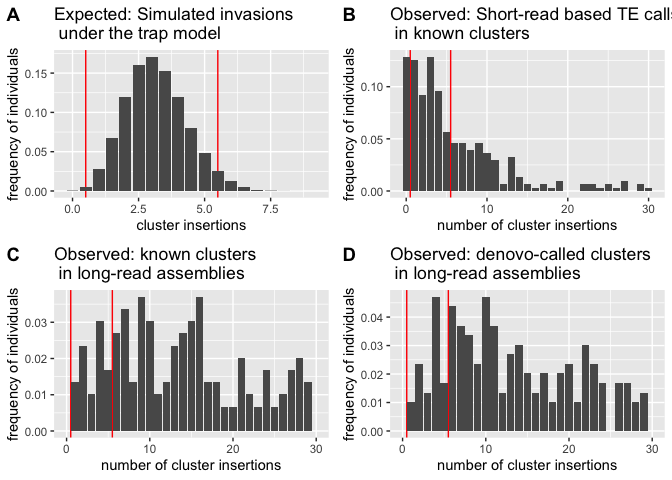
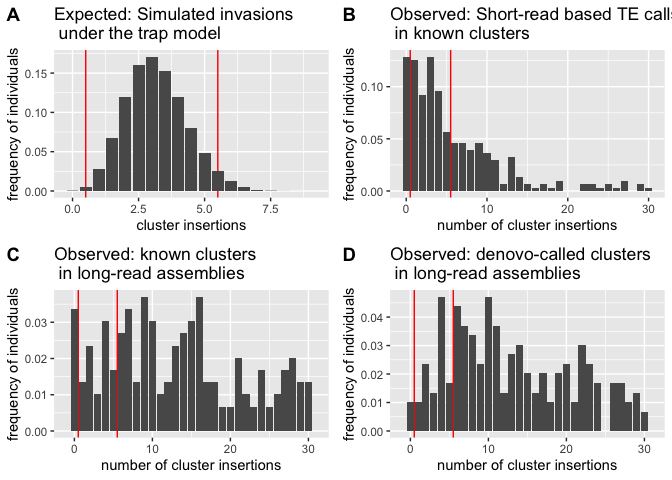
bug fix in figure (0 cluins were excluded in two approaches). Now 0 to 30 are shown

diff --git a/rmd-scripts/main-histo.md b/rmd-scripts/main-histo.md
@@ -197,7 +197,7 @@ ht<-unique(ht)
 ht$indsrel<-ht$inds/sum(ht$inds)
 
 
-real<-ggplot(ht, aes(x=cluster, y=indsrel))+ geom_vline( xintercept =alq,col="red")+ geom_vline( xintercept =auq,col="red") + geom_bar(stat="identity")+ylab("frequency of individuals")+xlab("number of cluster insertions")+xlim(0,30)+ggtitle("Observed: known clusters \n in long-read assemblies ")#+xlim(-1,160)+ylim(0,0.35)
+real<-ggplot(ht, aes(x=cluster, y=indsrel))+ geom_vline( xintercept =alq,col="red")+ geom_vline( xintercept =auq,col="red") + geom_bar(stat="identity")+ylab("frequency of individuals")+xlab("number of cluster insertions")+xlim(-1,31)+ggtitle("Observed: known clusters \n in long-read assemblies ")#+xlim(-1,160)+ylim(0,0.35)
 
 
 ##ref (not used currently)
@@ -445,7 +445,7 @@ prt<-unique(prt)
 prt$indsrel<-prt$inds/sum(prt$inds)
 
 
-proT<-ggplot(prt, aes(x=cluster, y=indsrel))+ geom_vline( xintercept =alq,col="red")+ geom_vline( xintercept =auq,col="red") + geom_bar(stat="identity")+ylab("frequency of individuals")+xlab("number of cluster insertions")+xlim(0,30)+ggtitle("Observed: denovo-called clusters \n in long-read assemblies ")#+ylim(0,0.35)
+proT<-ggplot(prt, aes(x=cluster, y=indsrel))+ geom_vline( xintercept =alq,col="red")+ geom_vline( xintercept =auq,col="red") + geom_bar(stat="identity")+ylab("frequency of individuals")+xlab("number of cluster insertions")+xlim(-1,31)+ggtitle("Observed: denovo-called clusters \n in long-read assemblies ")#+ylim(0,0.35)
 
 
 
@@ -456,13 +456,13 @@ g<-ggarrange(simu, popTE2, real, proT,
              ncol = 2, nrow = 2)
 ```
 
-    ## Warning: Removed 63 rows containing missing values (position_stack).
+    ## Warning: Removed 62 rows containing missing values (position_stack).
 
-    ## Warning: Removed 2 rows containing missing values (geom_bar).
+    ## Warning: Removed 1 rows containing missing values (geom_bar).
 
-    ## Warning: Removed 45 rows containing missing values (position_stack).
+    ## Warning: Removed 44 rows containing missing values (position_stack).
 
-    ## Warning: Removed 2 rows containing missing values (geom_bar).
+    ## Warning: Removed 1 rows containing missing values (geom_bar).
 
 ``` r
 plot(g)
